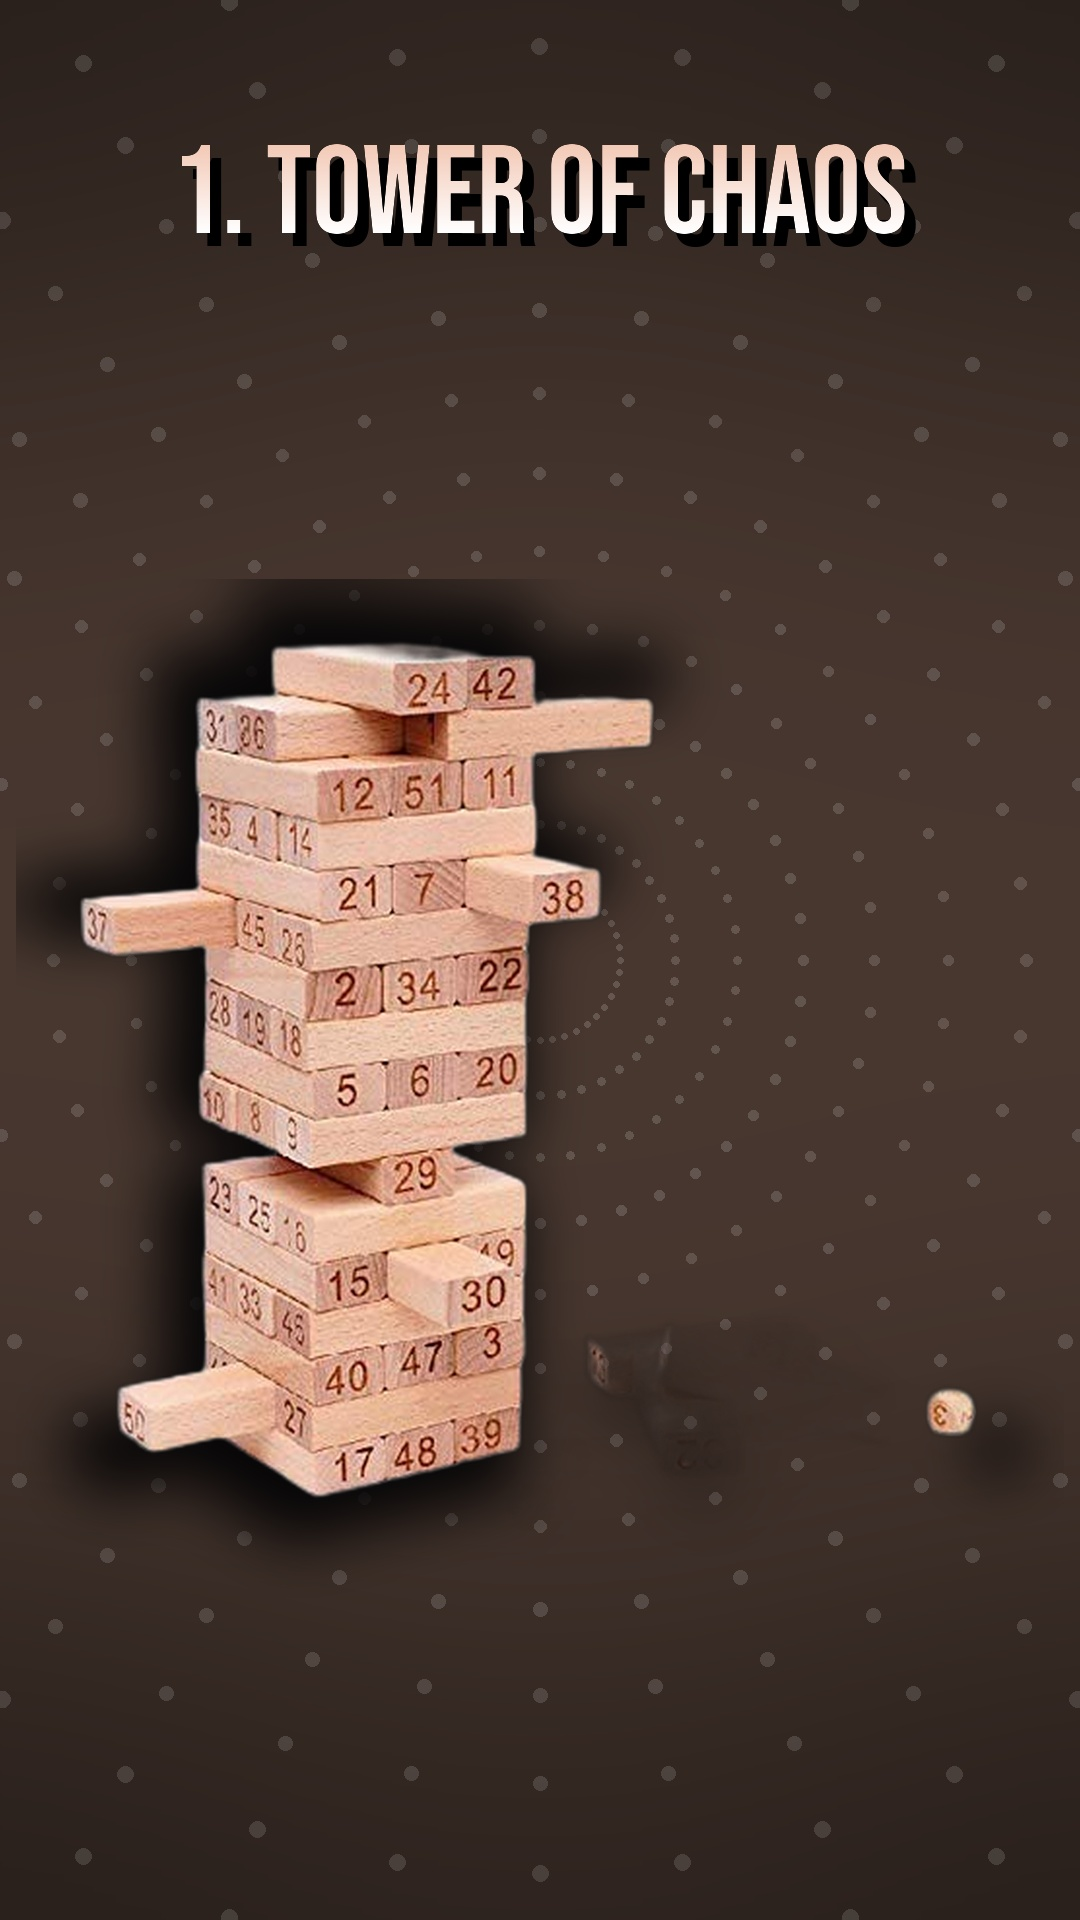
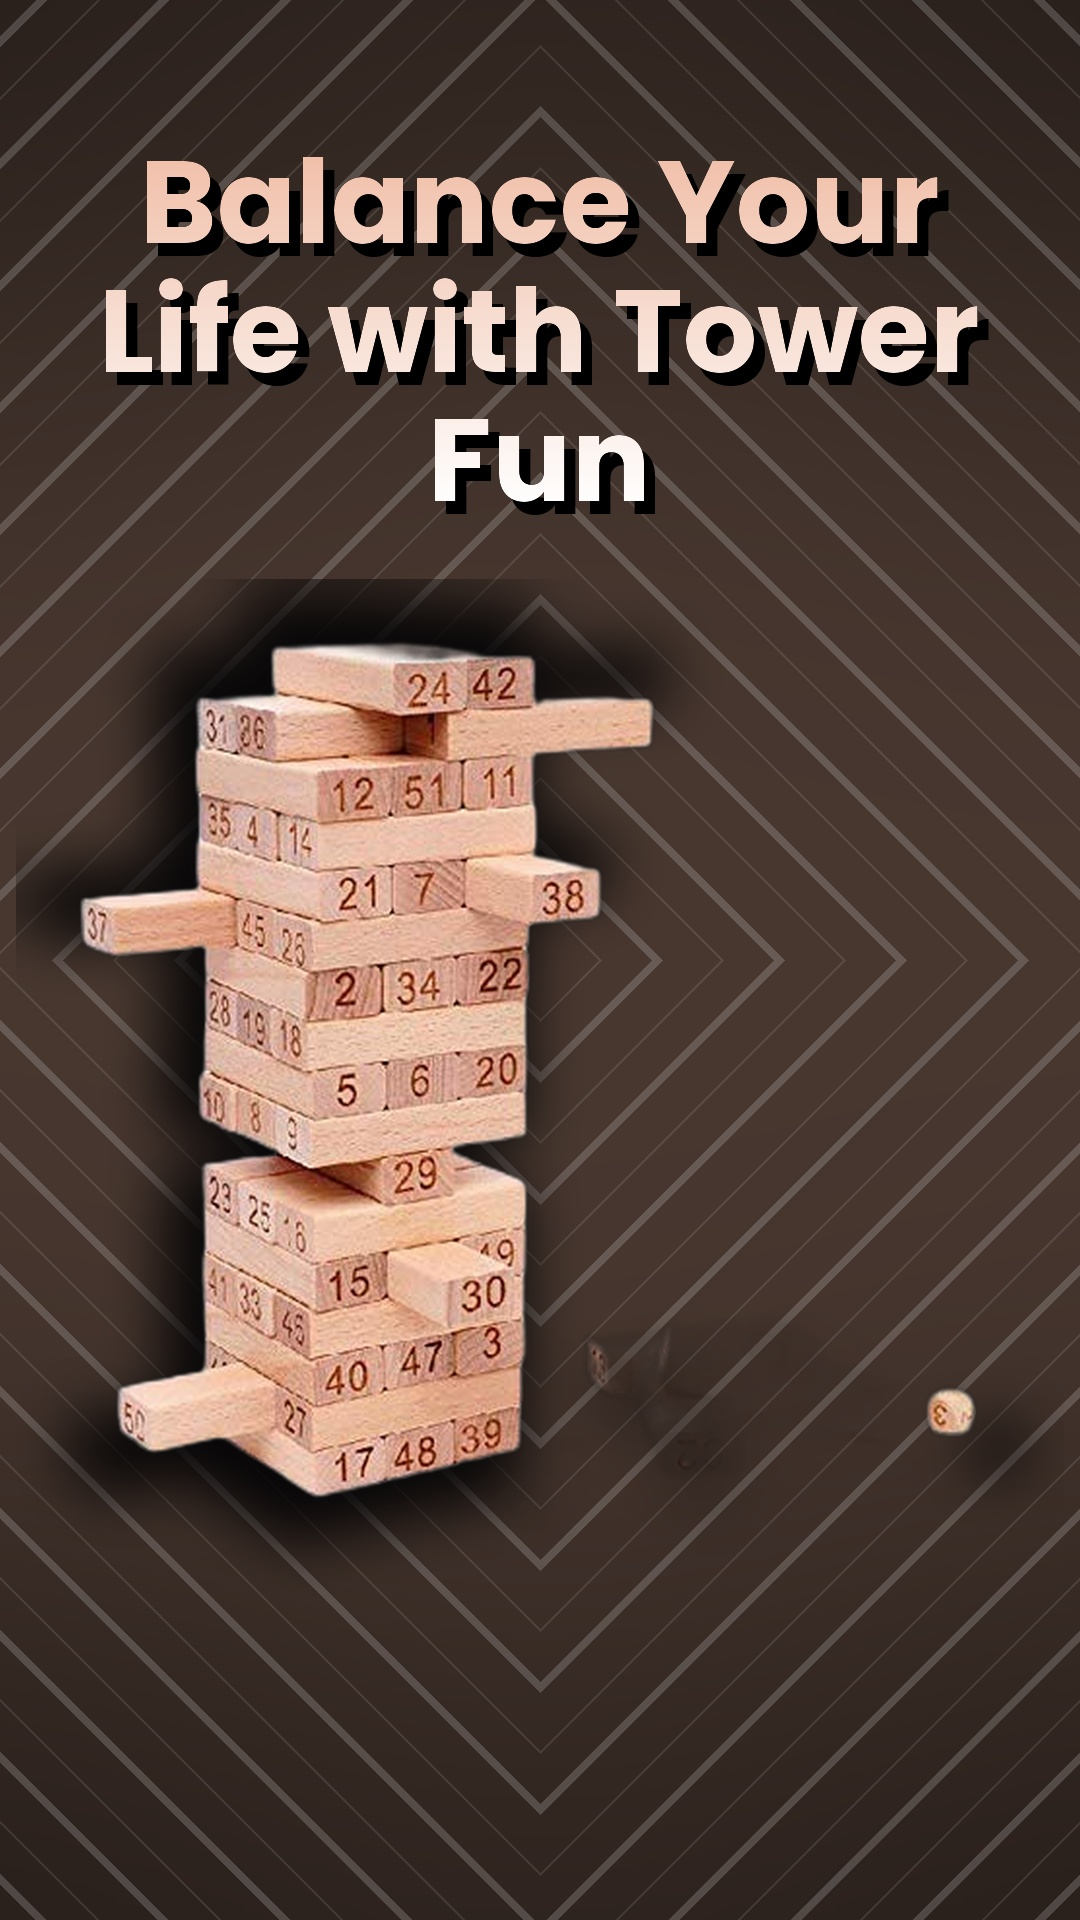
fix..

diff --git a/main.py b/main.py
@@ -383,6 +383,23 @@ def get_uploaded_asins():
     except Exception as e:
         print(f"⚠️ Could not read history: {e}")
         return set()
+    
+def pull_latest_changes():
+    """Attempts to pull the latest changes from the remote repository."""
+    print("Local environment detected. Checking for remote updates...")
+    try:
+        # Runs 'git pull origin main' (adjust branch name if yours is different)
+        result = subprocess.run(
+            ["git", "pull", "origin", "main"],
+            check=True,
+            capture_output=True,
+            text=True
+        )
+        print("Git Pull Output:\n", result.stdout)
+    except subprocess.CalledProcessError as e:
+        print(f"Error during git pull: {e.stderr}", file=sys.stderr)
+        # Optional: Decide if you want to exit if a merge conflict happens during auto-pull
+        # sys.exit(1)
 
 def start_daily_routine():
     product_found = False
@@ -701,6 +718,12 @@ def run_manual_post(url):
         
 
 if __name__ == "__main__":
+    is_github_pipeline = os.environ.get("GITHUB_ACTIONS") == "true"
+    if not is_github_pipeline:
+        pull_latest_changes()
+    else:
+        print("Running inside GitHub Actions pipeline. Skipping git pull.")
+        
     start_daily_routine()    
     
     # manual_url = "https://www.amazon.in/dp/B09XML6PPD"